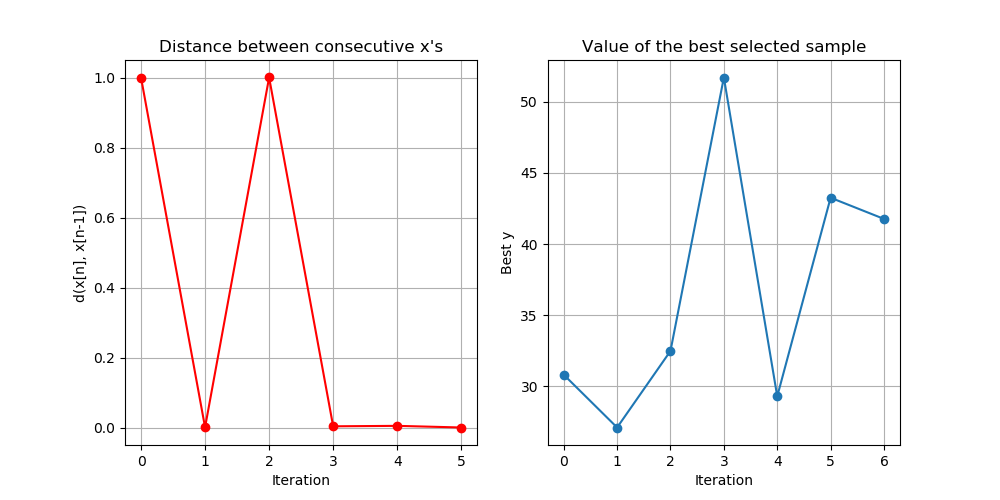
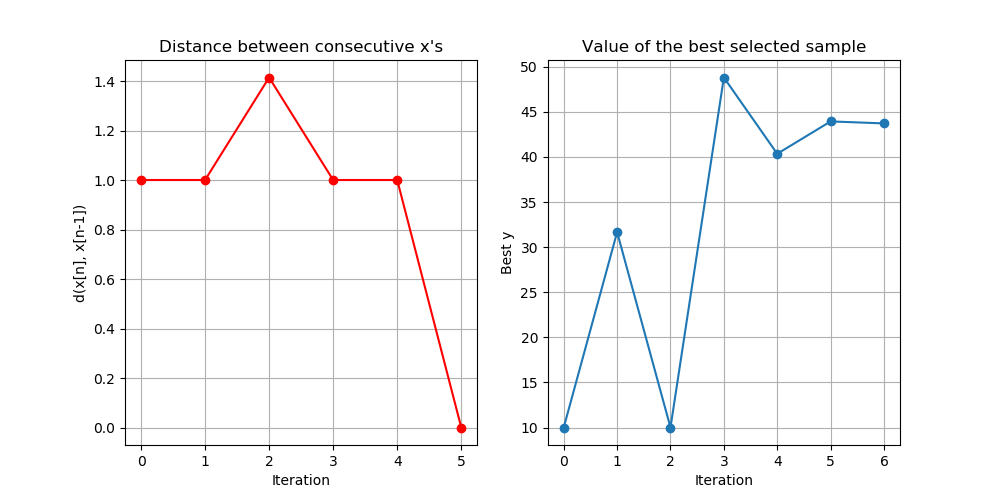
act funcs in plots

diff --git a/neural_opt/plots.py b/neural_opt/plots.py
@@ -1,8 +1,9 @@
 import pickle
 import GPyOpt
 import matplotlib.pyplot as plt
+import numpy as np
 
-with open("neural_opt/opt_params_best.pkl", "rb") as f:
+with open("neural_opt/opt_params.pkl", "rb") as f:
     opt = pickle.load(f)
 
 # opt.plot_convergence("test.png")
@@ -11,14 +12,20 @@ GPyOpt.plotting.plots_bo.plot_convergence(opt.X, opt.Y*-1, filename = "convergen
 plt.ylabel("Accuracy [%]")
 plt.show()
 
+# get evaluations
 evaluations = opt.get_evaluations()
 opt.save_evaluations("evaluations")
 
 learning_rates = evaluations[0][:, 0]
 optimizers = evaluations[0][:, 1]
-accuracies = list(evaluations[1])
-print(accuracies)
-# fig = plt.figure()
+act_funcs = evaluations[0][:, 2]
+accuracies = np.array([-evaluations[1][i][0] for i in range(len(evaluations[1]))])
 
-# plt.subplot(2,1, 1)
-# plt.plot(evaluations[0][0], evaluations[1])
+# plot
+fig = plt.figure()
+
+plt.subplot(2,2, 1)
+plt.plot(learning_rates, accuracies)
+
+plt.subplot(3,1,2)
+plt.plot(optimiz)
